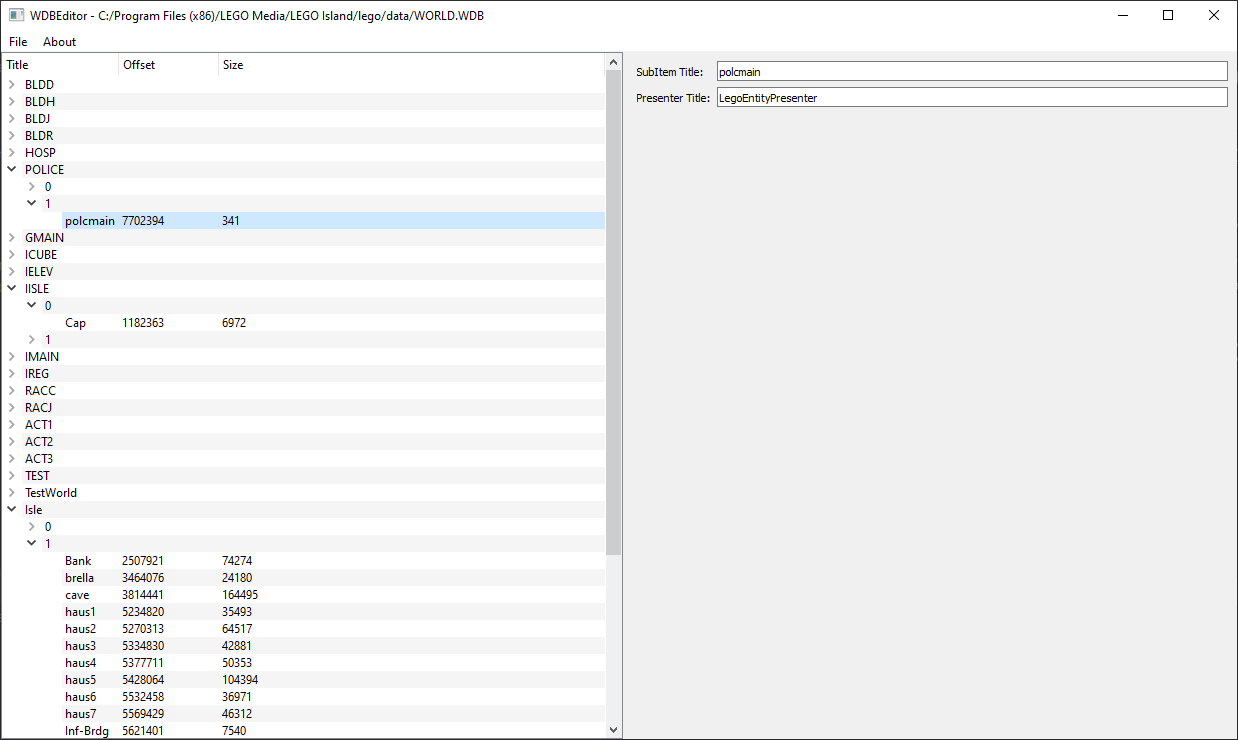
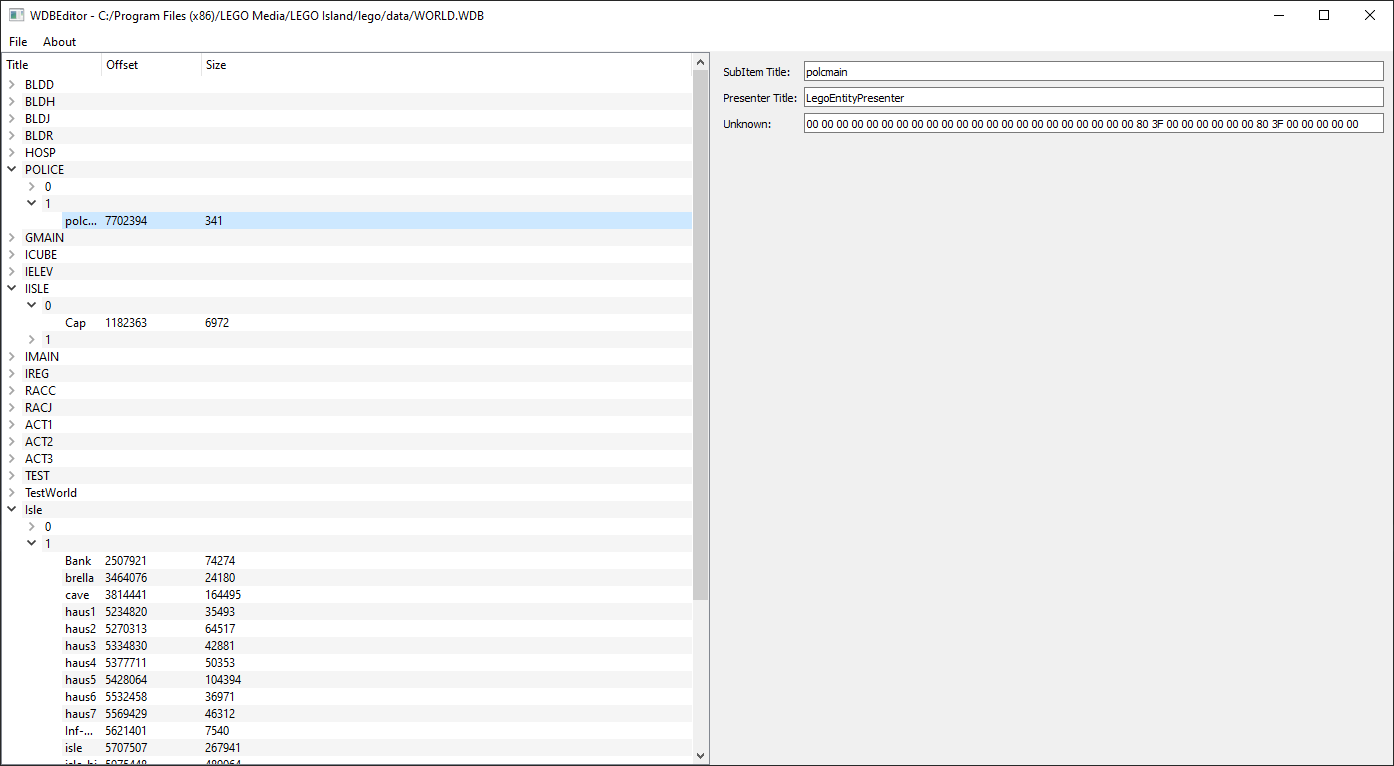
README and screenshot update.

diff --git a/README.md b/README.md
@@ -10,6 +10,6 @@ Files can be opened, and saved again. The application also only reads and writes
 
 ## TODO
 1. ~~Add Serialization logic so files can be saved again after editing~~ (The fields that are being parsed are being reconstructed correctly, however, not all data is being parsed currently, of course)
-2. Add UI support for more missing fields (Unknown 37 bytes in presenter info, for instance)
+2. ~~Add UI support for more missing fields (Unknown 37 bytes in presenter info, for instance)~~ (Unknown field has been added, data chunks come later)
 3. Add support for actually editing fields, rather than just showing them
 4. Add support for actual data chunks
